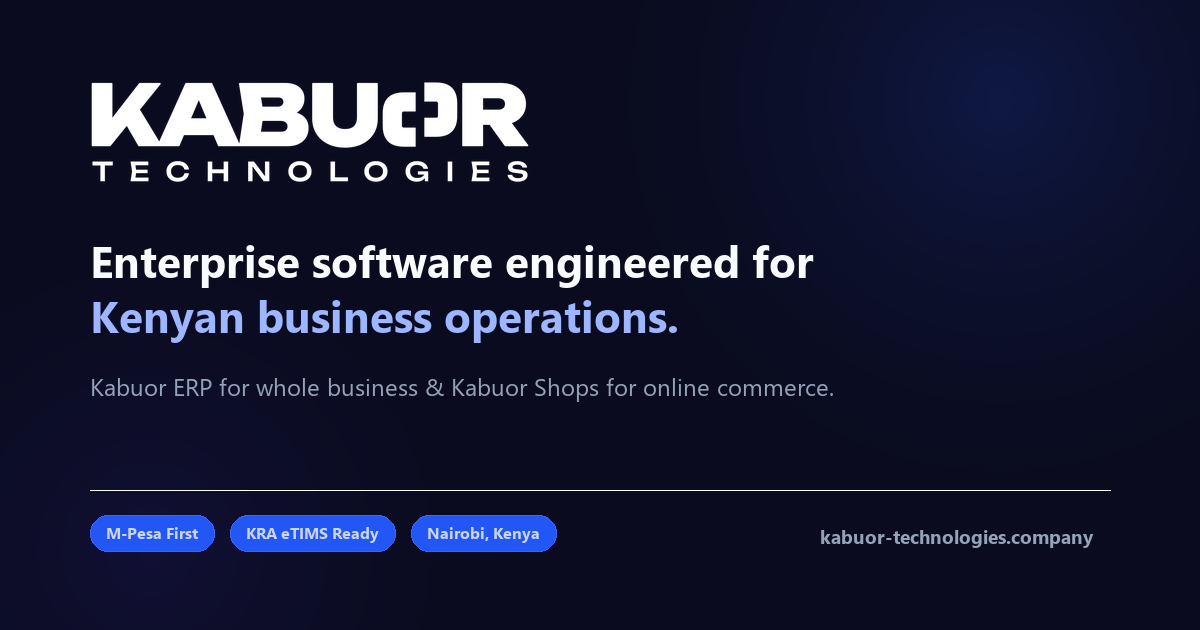
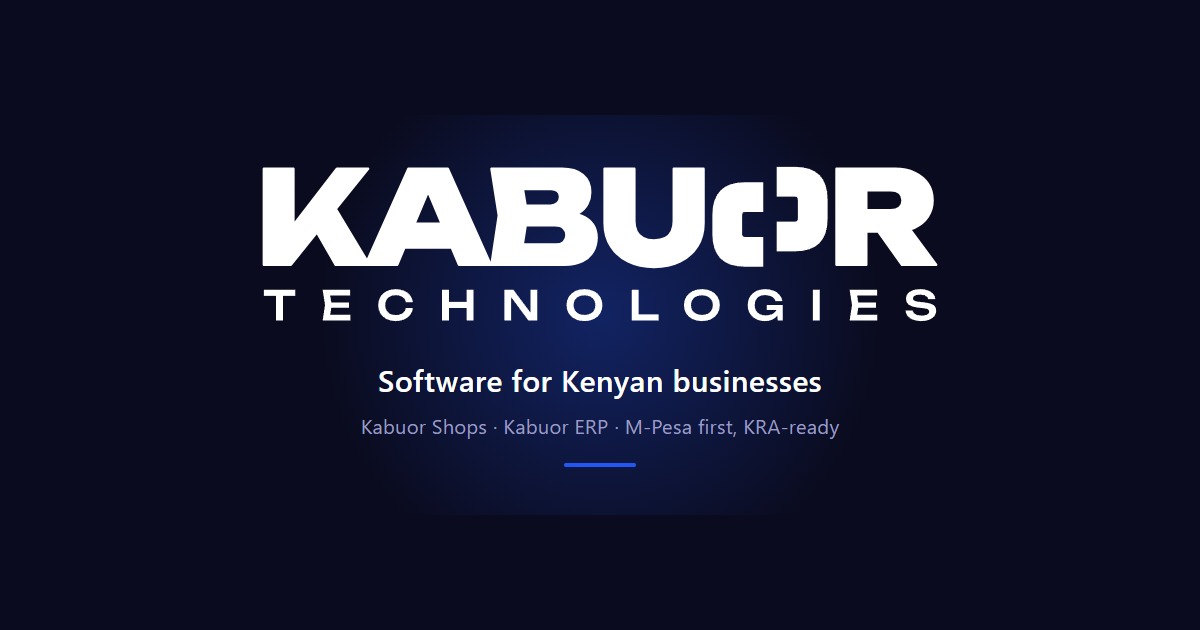
feat(seo): replace old mockup screenshot with official v2 brand card, enforce Kabuor Technologies site name across metadata and server responses

Changed region(s): [[0.0617, 0.0, 0.925, 0.8143], [0.0617, 0.8143, 0.4625, 0.8746], [0.6783, 0.8444, 0.925, 0.8746]]

diff --git a/client/company.html b/client/company.html
@@ -4,6 +4,8 @@
     <meta charset="UTF-8" />
     <meta name="viewport" content="width=device-width, initial-scale=1, viewport-fit=cover" />
     <meta name="theme-color" content="#0A0B1E" />
+    <meta name="application-name" content="Kabuor Technologies" />
+    <meta name="apple-mobile-web-app-title" content="Kabuor Technologies" />
     
     <!-- Primary Meta Tags -->
     <title>Kabuor Technologies · Software for Kenyan businesses</title>
@@ -16,8 +18,8 @@
     <meta property="og:site_name" content="Kabuor Technologies" />
     <meta property="og:url" content="https://www.kabuor-technologies.company/" />
     <meta property="og:title" content="Kabuor Technologies · Software for Kenyan businesses" />
-    <meta property="og:description" content="Kabuor ERP runs the whole business with M-Pesa matching and KRA eTIMS; Kabuor Builds puts your shop online with M-Pesa checkout. Built in Nairobi." />
-    <meta property="og:image" content="https://www.kabuor-technologies.company/brand/og-kabuor-technologies.png" />
+    <meta property="og:description" content="Kabuor Technologies makes software Kenyan businesses run on: Kabuor Shops for selling online and Kabuor ERP for running the whole business. M-Pesa first, KRA-ready." />
+    <meta property="og:image" content="https://www.kabuor-technologies.company/brand/og-image.png" />
     <meta property="og:image:width" content="1200" />
     <meta property="og:image:height" content="630" />
     <meta property="og:image:alt" content="Kabuor Technologies - Software for Kenyan Businesses" />
@@ -28,7 +30,7 @@
     <meta name="twitter:url" content="https://www.kabuor-technologies.company/" />
     <meta name="twitter:title" content="Kabuor Technologies · Software for Kenyan businesses" />
     <meta name="twitter:description" content="Kabuor Technologies makes software Kenyan businesses run on: Kabuor Shops for selling online and Kabuor ERP for running the whole business. M-Pesa first, KRA-ready." />
-    <meta name="twitter:image" content="https://www.kabuor-technologies.company/brand/og-kabuor-technologies.png" />
+    <meta name="twitter:image" content="https://www.kabuor-technologies.company/brand/og-image.png" />
 
     <!-- Robots and Indexing Directives -->
     <meta name="robots" content="index, follow, max-image-preview:large, max-snippet:-1, max-video-preview:-1" />
@@ -71,10 +73,10 @@
           "logo": {
             "@type": "ImageObject",
             "url": "https://www.kabuor-technologies.company/brand/icon-512.png",
-            "width": 64,
-            "height": 64
+            "width": 512,
+            "height": 512
           },
-          "image": "https://www.kabuor-technologies.company/brand/og-kabuor-technologies.png",
+          "image": "https://www.kabuor-technologies.company/brand/og-image.png",
           "description": "Enterprise software engineered for Kenyan business operations: Kabuor Shops for selling online and Kabuor ERP for running the whole business. M-Pesa first, KRA-ready.",
           "email": "rooneykabuor2004@gmail.com",
           "telephone": "+254705607954",

diff --git a/server/src/index.js b/server/src/index.js
@@ -178,9 +178,13 @@ if (existsSync(dist)) {
         '/shops': [`Kabuor Shops · Product-first websites that sell`, `Your product, your colours, your prices. Customers pick, pay with M-Pesa, done. ${PLATFORM_TAGLINE}`],
         '/erp': ['Kabuor ERP · Run the whole business from one place', 'Sales, M-Pesa matching, KRA-ready VAT, stock and books, with an assistant you can ask in Kiswahili. Built in Kenya.'],
         '/start': [`Start your shop · ${PLATFORM_NAME}`, 'Design your shop, see it, then pay by M-Pesa and go live.'],
+        '/careers': ['Careers · Kabuor Technologies', 'Careers and open engineering roles at Kabuor Technologies in Nairobi, Kenya.'],
+        '/about-founder': ['About the Founder · Kabuor Technologies', 'Rooney Odhiambo Kabuor, Founder & CEO of Kabuor Technologies Ltd.'],
+        '/privacy': ['Privacy Notice · Kabuor Technologies', 'How Kabuor Technologies collects, protects and handles your business data.'],
+        '/terms': ['Terms of Use · Kabuor Technologies', 'Terms and conditions for Kabuor Technologies software and services.'],
       };
-      const [title, description] = pages[req.path.replace(/\/$/, '')] ?? [`${PLATFORM_NAME} · Software for Kenyan businesses`, 'Kabuor Shops for selling online and Kabuor ERP for running the whole business. M-Pesa first, KRA-ready, in English and Kiswahili.'];
-      return res.send(page({ title, description, color: '#0A0B1E', icon: '/brand/icon-64.png' }));
+      const [title, description] = pages[req.path.replace(/\/$/, '')] ?? ['Kabuor Technologies · Software for Kenyan businesses', 'Kabuor Technologies makes software Kenyan businesses run on: Kabuor Shops for selling online and Kabuor ERP for running the whole business. M-Pesa first, KRA-ready.'];
+      return res.send(page({ title, description, color: '#0A0B1E', icon: '/brand/icon-192.png' }));
     }
     if (!shop) return res.status(404).send(page({ title: `${PLATFORM_DOMAIN ? `${slug}.${PLATFORM_DOMAIN}` : slug} is available`, description: `Open your shop on ${PLATFORM_NAME}.`, color: '#F6F3EC' }));
     const c = shop.brand.content;

diff --git a/client/index.html b/client/index.html
@@ -4,6 +4,8 @@
     <meta charset="UTF-8" />
     <meta name="viewport" content="width=device-width, initial-scale=1, viewport-fit=cover" />
     <meta name="theme-color" content="#0A0B1E" />
+    <meta name="application-name" content="Kabuor Technologies" />
+    <meta name="apple-mobile-web-app-title" content="Kabuor Technologies" />
     
     <!-- Primary Meta Tags -->
     <title>Kabuor Technologies · Software for Kenyan businesses</title>
@@ -17,7 +19,7 @@
     <meta property="og:url" content="https://www.kabuor-technologies.company/" />
     <meta property="og:title" content="Kabuor Technologies · Software for Kenyan businesses" />
     <meta property="og:description" content="Kabuor Technologies makes software Kenyan businesses run on: Kabuor Shops for selling online and Kabuor ERP for running the whole business. M-Pesa first, KRA-ready." />
-    <meta property="og:image" content="https://www.kabuor-technologies.company/brand/og-kabuor-technologies.png" />
+    <meta property="og:image" content="https://www.kabuor-technologies.company/brand/og-image.png" />
     <meta property="og:image:width" content="1200" />
     <meta property="og:image:height" content="630" />
     <meta property="og:image:alt" content="Kabuor Technologies - Software for Kenyan Businesses" />
@@ -71,8 +73,8 @@
           "logo": {
             "@type": "ImageObject",
             "url": "https://www.kabuor-technologies.company/brand/icon-512.png",
-            "width": 64,
-            "height": 64
+            "width": 512,
+            "height": 512
           },
           "image": "https://www.kabuor-technologies.company/brand/og-image.png",
           "description": "Enterprise software engineered for Kenyan business operations: Kabuor Shops for selling online and Kabuor ERP for running the whole business. M-Pesa first, KRA-ready.",
